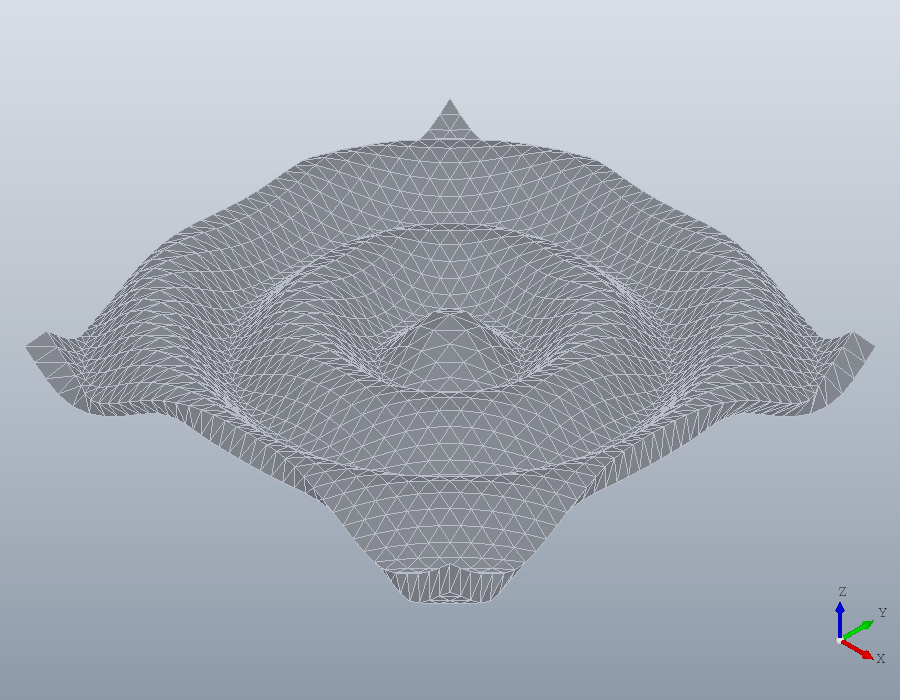
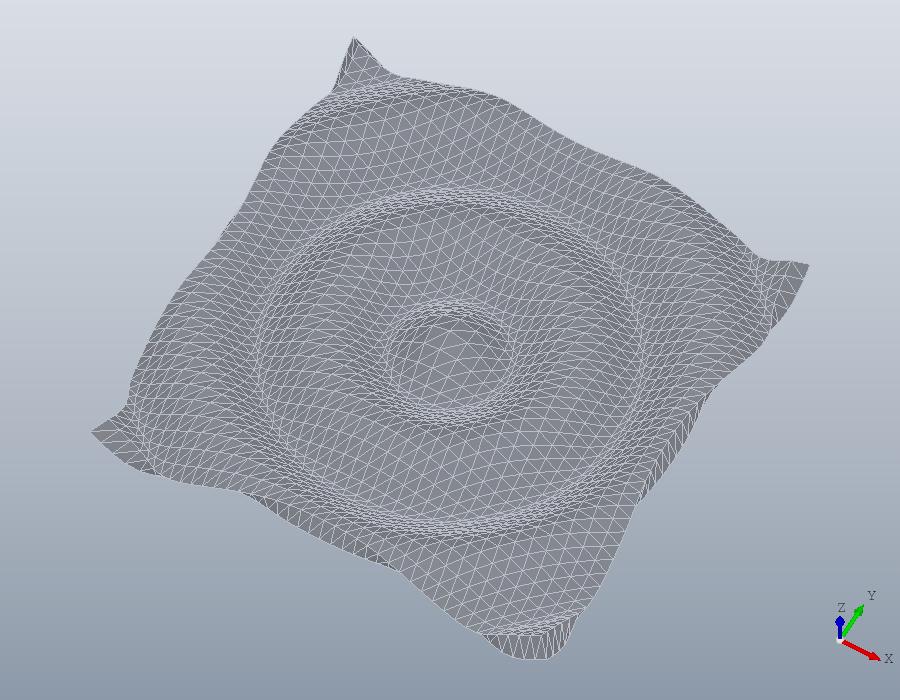
model.Viewer: Add view, to set and read the angles the view looks from
* src/__occtview__.cc (setview, getview): New methods, which turn the
  view to an azimuth and an elevation, as Octave's view takes them, and
  read them back.
  (command): Add the commands view and getview.
  * inst/+model/Viewer.m (view): New method.  Test it.
  * docs/guide/src/13_surfaces.m: Look at the ripple from 60 degrees up.
  * docs/guide/13_surfaces.html, docs/guide/img/13_surfaces-*.png: Rebuild.

Changed region(s): [[0.0311, 0.06, 0.9644, 0.96], [0.9333, 0.84, 0.9644, 0.93], [0.9644, 0.93, 0.9956, 0.96]]

diff --git a/docs/guide/13_surfaces.html b/docs/guide/13_surfaces.html
@@ -104,16 +104,19 @@ e = [K(:,1); K(m,2:n)'; K(m-1:-1:1,n); K(1,n-1:-1:2)'];
 f = circshift (e, -1);
 F = [F; e, f, f + m * n; e, f + m * n, e + m * n];
 facets = solid.polyhedron (polymesh.Mesh (V, F));
-numfaces (facets)
-show (facets);</code></pre>
+numfaces (facets)</code></pre>
 <pre class="code-out"><code>ans = 6720</code></pre>
+<p>A viewer opens on the isometric view, from 35 degrees above the ground, and from that low a part this shallow looks deeper than it is. <code>show</code> returns the viewer, and <code>view</code> turns it to look from higher up, taking the azimuth and the elevation in degrees as <code>view</code> does for a plot.</p>
+<pre class="code-in"><code>win = show (facets);
+view (win, 30, 60);</code></pre>
 <figure class="shot"><img src="img/13_surfaces-1.png" alt="Surfaces through a grid, picture 1"></figure>
 <p>Every triangle is a face of its own, flat, and the ripple is only as round as the grid is fine.</p>
 <h2>As an exact surface</h2>
 <p><a href="../solid.surface.html"><code>solid.surface</code></a> takes the same grid and has Open CASCADE fit one smooth surface through it, passing within 0.001 mm of every point, then makes a solid of it, the surface thickened square to itself. The thickness is given as <a href="../solid.extrude.html"><code>solid.extrude</code></a> takes its height: <code>[0.5, 0.5]</code> is half a millimetre to each side, a skin of 1 centred on the surface. The normals, the triangles and the edges are all its work.</p>
 <pre class="code-in"><code>S = solid.surface (x, y, Z, [0.5, 0.5]);
 numfaces (S)
-show (S);</code></pre>
+win = show (S);
+view (win, 30, 60);</code></pre>
 <pre class="code-out"><code>ans = 6</code></pre>
 <figure class="shot"><img src="img/13_surfaces-2.png" alt="Surfaces through a grid, picture 2"></figure>
 <p>Six faces: the ripple on top, the ripple below and the four sides. A cut through the middle shows the difference plainly: the facets give an outline of 82 short lines, the surface one of four pieces, the two curves of the ripple and the two sides.</p>
@@ -140,7 +143,8 @@ end_try_catch</code></pre>
 <pre class="code-out"><code>solid.surface: the surface curves more tightly than the thickness along its normal allows; its tightest radius on that side is 0.632.</code></pre>
 <p>A thinner skin on that side fits:</p>
 <pre class="code-in"><code>T = solid.surface (x, y, Z, 0.6);
-show (T);</code></pre>
+win = show (T);
+view (win, 30, 60);</code></pre>
 <figure class="shot"><img src="img/13_surfaces-3.png" alt="Surfaces through a grid, picture 3"></figure>
 <p>A grid that comes to a point is rounded off there by the fit, tightly. The sine of the distance rises from the centre like a cone, so the ripple made with <code>sind</code> instead of <code>cosd</code> takes no skin of 1 even centred:</p>
 <pre class="code-in"><code>try

diff --git a/inst/+model/Viewer.m b/inst/+model/Viewer.m
@@ -814,6 +814,85 @@ classdef Viewer < handle
     endfunction
 
     ## -*- texinfo -*-
+    ## @deftypefn  {model.Viewer} {} view (@var{V}, @var{AZ}, @var{EL})
+    ## @deftypefnx {model.Viewer} {[@var{AZ}, @var{EL}] =} view (@var{V})
+    ##
+    ## Set or query the direction the viewer looks from.
+    ##
+    ## @code{view (@var{V}, @var{AZ}, @var{EL})} turns the view to look at the
+    ## shape from azimuth @var{AZ} and elevation @var{EL}, in degrees, and fits
+    ## the shape to the window.  The angles are those Octave's @code{view}
+    ## takes for a plot: @var{AZ} turns anticlockwise about @math{z}, seen from
+    ## above, starting from the negative @math{y} axis, and @var{EL} rises from
+    ## the @math{x}-@math{y} plane, from -90 looking straight up to 90 looking
+    ## straight down.  The @math{z} axis points up the window; looking
+    ## straight down or up, the @math{y} axis does, turned by @var{AZ}.  The
+    ## mouse still turns the view afterwards.
+    ##
+    ## @code{[@var{AZ}, @var{EL}] = view (@var{V})} returns the angles the
+    ## view looks from now, however it got there, @var{AZ} from -180 to 180,
+    ## so that a view found with the mouse can be kept in a script.  A turn
+    ## about the line of sight, which the mouse can give, is not part of them.
+    ##
+    ## The keys of the window give four of these views: @kbd{0} is
+    ## @code{view (@var{V}, 45, 35.26)}, near enough, the isometric view the
+    ## window opens with, @kbd{1} is @code{view (@var{V}, 0, 0)}, @kbd{2} is
+    ## @code{view (@var{V}, 0, 90)} and @kbd{3} is
+    ## @code{view (@var{V}, 90, 0)}.
+    ##
+    ## @example
+    ## @group
+    ## ## A shallow part looks deeper than it is from the isometric view;
+    ## ## look from higher up
+    ## part = solid.box (80, 40, 4);
+    ## V = show (part);
+    ## view (V, 30, 60);
+    ## ## Keep a view found with the mouse
+    ## [az, el] = view (V);
+    ## @end group
+    ## @end example
+    ##
+    ## @seealso{solid.Shape.show}
+    ## @end deftypefn
+    function varargout = view (this, varargin)
+
+      ## Input validation
+      if (! any (numel (varargin) == [0, 2]))
+        error ("model.Viewer.view: invalid number of input arguments.");
+      endif
+      if (numel (varargin) == 2)
+        if (nargout > 0)
+          error ("model.Viewer.view: invalid number of output arguments.");
+        endif
+        [AZ, EL] = varargin{:};
+        if (! isnumeric (AZ) || ! isreal (AZ) || ! isscalar (AZ)
+            || ! isfinite (AZ))
+          error ("model.Viewer.view: AZ must be a finite real scalar.");
+        endif
+        if (! isnumeric (EL) || ! isreal (EL) || ! isscalar (EL)
+            || ! (EL >= -90 && EL <= 90))
+          error (strcat ("model.Viewer.view: EL must be a real scalar in", ...
+                         " the range [-90, 90] degrees."));
+        endif
+      endif
+      if (! isopen (this))
+        error ("model.Viewer.view: the viewer's window is not open.");
+      endif
+
+      if (numel (varargin) == 2)
+        send (this, sprintf ("view %.17g %.17g", double (AZ), double (EL)));
+        receive (this, 10);
+      else
+        send (this, "getview");
+        r = strsplit (receive (this, 10));
+        ## Rounded to 1e-9 degrees, so that angles set read back as given
+        A = round (str2double (r(2:3)) * 1e9) / 1e9 + 0;
+        varargout = {A(1), A(2)};
+      endif
+
+    endfunction
+
+    ## -*- texinfo -*-
     ## @deftypefn {model.Viewer} {} close (@var{V})
     ##
     ## Close the viewer's window.
@@ -1162,6 +1241,108 @@ endfunction
 %! unwind_protect_cleanup
 %!   close (V);
 %! end_unwind_protect
+
+%!testif ; ! isempty (getenv ('DISPLAY'))
+%! ## The window opens on the isometric view
+%! V = model.Viewer ('Hidden', true);
+%! unwind_protect
+%!   V.Shape = solid.box (10, 20, 30);
+%!   [az, el] = view (V);
+%!   assert_equal ([az, el], [45, atand(1 / sqrt (2))], 1e-8);
+%! unwind_protect_cleanup
+%!   close (V);
+%! end_unwind_protect
+
+%!testif ; ! isempty (getenv ('DISPLAY'))
+%! ## A view set reads back as given
+%! V = model.Viewer ('Hidden', true);
+%! unwind_protect
+%!   V.Shape = solid.box (10, 20, 30);
+%!   view (V, 30, 60);
+%!   [az, el] = view (V);
+%!   assert_equal ([az, el], [30, 60]);
+%! unwind_protect_cleanup
+%!   close (V);
+%! end_unwind_protect
+
+%!testif ; ! isempty (getenv ('DISPLAY'))
+%! ## Straight down, the azimuth is kept
+%! V = model.Viewer ('Hidden', true);
+%! unwind_protect
+%!   V.Shape = solid.box (10, 20, 30);
+%!   view (V, 30, 90);
+%!   [az, el] = view (V);
+%!   assert_equal ([az, el], [30, 90]);
+%! unwind_protect_cleanup
+%!   close (V);
+%! end_unwind_protect
+
+%!testif ; ! isempty (getenv ('DISPLAY'))
+%! ## The azimuth reads back from -180 to 180
+%! V = model.Viewer ('Hidden', true);
+%! unwind_protect
+%!   V.Shape = solid.box (10, 20, 30);
+%!   view (V, 200, -20);
+%!   [az, el] = view (V);
+%!   assert_equal ([az, el], [-160, -20]);
+%! unwind_protect_cleanup
+%!   close (V);
+%! end_unwind_protect
+
+%!testif ; ! isempty (getenv ('DISPLAY'))
+%! ## Seen from above, x runs right and y up the window
+%! V = model.Viewer ('Hidden', true);
+%! unwind_protect
+%!   V.Shape = solid.box (10, 20, 30);
+%!   view (V, 0, 90);
+%!   O = V.__project__ ([0, 0, 30]);
+%!   X = V.__project__ ([10, 0, 30]);
+%!   Y = V.__project__ ([0, 20, 30]);
+%!   assert_equal ([X(1) > O(1), Y(2) < O(2)], [true, true]);
+%! unwind_protect_cleanup
+%!   close (V);
+%! end_unwind_protect
+
+%!testif ; ! isempty (getenv ('DISPLAY'))
+%! ## Seen from the front, z runs up the window
+%! V = model.Viewer ('Hidden', true);
+%! unwind_protect
+%!   V.Shape = solid.box (10, 20, 30);
+%!   view (V, 0, 0);
+%!   O = V.__project__ ([0, 0, 0]);
+%!   Z = V.__project__ ([0, 0, 30]);
+%!   assert_equal (Z(2) < O(2), true);
+%! unwind_protect_cleanup
+%!   close (V);
+%! end_unwind_protect
+
+%!testif ; ! isempty (getenv ('DISPLAY'))
+%! ## and looks along y
+%! V = model.Viewer ('Hidden', true);
+%! unwind_protect
+%!   V.Shape = solid.box (10, 20, 30);
+%!   view (V, 0, 0);
+%!   assert_equal (V.__project__ ([5, 20, 10]), V.__project__ ([5, 0, 10]));
+%! unwind_protect_cleanup
+%!   close (V);
+%! end_unwind_protect
+
+%!error<model.Viewer.view: invalid number of input arguments.> ...
+%! view (model.Viewer ('Hidden', true), 30)
+%!error<model.Viewer.view: invalid number of output arguments.> ...
+%! A = view (model.Viewer ('Hidden', true), 30, 60);
+%!error<model.Viewer.view: AZ must be a finite real scalar.> ...
+%! view (model.Viewer ('Hidden', true), Inf, 60)
+%!error<model.Viewer.view: AZ must be a finite real scalar.> ...
+%! view (model.Viewer ('Hidden', true), [30, 40], 60)
+%!error<model.Viewer.view: EL must be a real scalar in the range \[-90, 90\] degrees.> ...
+%! view (model.Viewer ('Hidden', true), 30, 91)
+%!error<model.Viewer.view: EL must be a real scalar in the range \[-90, 90\] degrees.> ...
+%! view (model.Viewer ('Hidden', true), 30, NaN)
+%!error<model.Viewer.view: EL must be a real scalar in the range \[-90, 90\] degrees.> ...
+%! view (model.Viewer ('Hidden', true), 30, 'a')
+%!error<model.Viewer.view: the viewer's window is not open.> ...
+%! view (model.Viewer ('Hidden', true))
 
 %!testif ; ! isempty (getenv ('DISPLAY'))
 %! ## A pixel picks the face and the edge the queries name

diff --git a/src/__occtview__.cc b/src/__occtview__.cc
@@ -77,6 +77,10 @@ this program; if not, see <http://www.gnu.org/licenses/>.
 //   drag PX PY QX QY
 //                  the left button pressed at one pixel and released at the
 //                  other, which turns the view; replies "dragged"
+//   view AZ EL     looks from azimuth AZ and elevation EL in degrees, as
+//                  Octave's view takes them, and fits the shape to the
+//                  window; replies "viewed"
+//   getview        replies "view AZ EL", the angles the view looks from
 //   dump FILE      writes the view to an image file (PPM); replies "dumped"
 //   close          closes the window
 //
@@ -619,6 +623,22 @@ public:
       FlushViewEvents (m_context, m_view, Standard_True);
       reply ("dragged");
     }
+    else if (cmd == "view")
+    {
+      double az, el;
+      in >> az >> el;
+      setview (az, el);
+      reply ("viewed");
+    }
+    else if (cmd == "getview")
+    {
+      double az, el;
+      getview (az, el);
+      ostringstream o;
+      o.precision (17);
+      o << "view " << az << " " << el;
+      reply (o.str ());
+    }
     else if (cmd == "dump")
     {
       string file;
@@ -1110,6 +1130,56 @@ private:
     m_view->SetProj (o);
     m_view->FitAll (0.05, Standard_False);
     m_hascentre = false;
+  }
+
+  // Look from azimuth AZ and elevation EL in degrees, as Octave's view takes
+  // them: AZ from the negative y axis, anticlockwise seen from above, and EL
+  // up from the x-y plane.  Up is z; looking straight down or up it is the y
+  // axis turned by AZ, as in Octave.
+  void setview (double az, double el)
+  {
+    const double a = az * M_PI / 180;
+    const double e = el * M_PI / 180;
+    const gp_Dir eye (std::sin (a) * std::cos (e), -std::cos (a) * std::cos (e),
+                      std::sin (e));
+    gp_Dir up (0, 0, 1);
+    if (std::abs (std::cos (e)) < 1e-9)
+    {
+      up = gp_Dir (-std::sin (a), std::cos (a), 0);
+      if (el < 0)
+      {
+        up.Reverse ();
+      }
+    }
+    Handle (Graphic3d_Camera) cam = m_view->Camera ();
+    const gp_Pnt c = cam->Center ();
+    cam->SetEyeAndCenter (c.Translated (gp_Vec (eye) * cam->Distance ()), c);
+    cam->SetUp (up);
+    cam->OrthogonalizeUp ();
+    m_view->FitAll (0.05, Standard_False);
+    m_hascentre = false;
+  }
+
+  // The azimuth and elevation the view looks from, in degrees, as setview
+  // takes them.  Looking straight down or up the azimuth is read from the
+  // up direction; any turn about the line of sight is not part of either.
+  void getview (double& az, double& el)
+  {
+    Handle (Graphic3d_Camera) cam = m_view->Camera ();
+    const gp_Dir d = cam->Direction ().Reversed ();
+    el = std::asin (std::max (-1.0, std::min (1.0, d.Z ())));
+    if (std::hypot (d.X (), d.Y ()) < 1e-9)
+    {
+      const gp_Dir u = cam->Up ();
+      az = d.Z () > 0 ? std::atan2 (-u.X (), u.Y ())
+                      : std::atan2 (u.X (), -u.Y ());
+    }
+    else
+    {
+      az = std::atan2 (d.X (), -d.Y ());
+    }
+    az *= 180 / M_PI;
+    el *= 180 / M_PI;
   }
 
   // The point of the shape at the pixel PX, PY made the centre the view

diff --git a/docs/guide/src/13_surfaces.m b/docs/guide/src/13_surfaces.m
@@ -63,7 +63,14 @@ f = circshift (e, -1);
 F = [F; e, f, f + m * n; e, f + m * n, e + m * n];
 facets = solid.polyhedron (polymesh.Mesh (V, F));
 numfaces (facets)
-show (facets);
+
+## A viewer opens on the isometric view, from 35 degrees above the ground,
+## and from that low a part this shallow looks deeper than it is. `show`
+## returns the viewer, and `view` turns it to look from higher up, taking
+## the azimuth and the elevation in degrees as `view` does for a plot.
+
+win = show (facets);
+view (win, 30, 60);
 
 ## Every triangle is a face of its own, flat, and the ripple is only as round
 ## as the grid is fine.
@@ -79,7 +86,8 @@ show (facets);
 
 S = solid.surface (x, y, Z, [0.5, 0.5]);
 numfaces (S)
-show (S);
+win = show (S);
+view (win, 30, 60);
 
 ## Six faces: the ripple on top, the ripple below and the four sides. A cut
 ## through the middle shows the difference plainly: the facets give an
@@ -115,7 +123,8 @@ end_try_catch
 ## A thinner skin on that side fits:
 
 T = solid.surface (x, y, Z, 0.6);
-show (T);
+win = show (T);
+view (win, 30, 60);
 
 ## A grid that comes to a point is rounded off there by the fit, tightly.
 ## The sine of the distance rises from the centre like a cone, so the ripple
